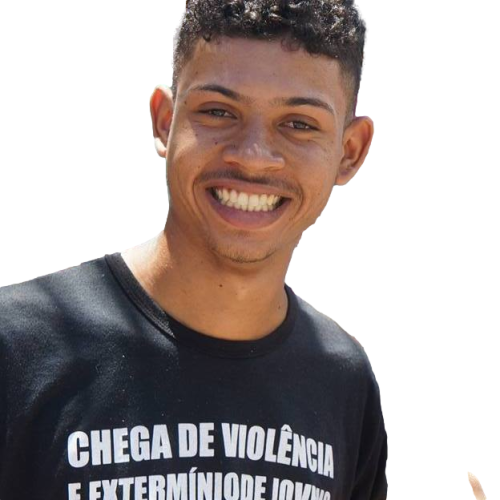
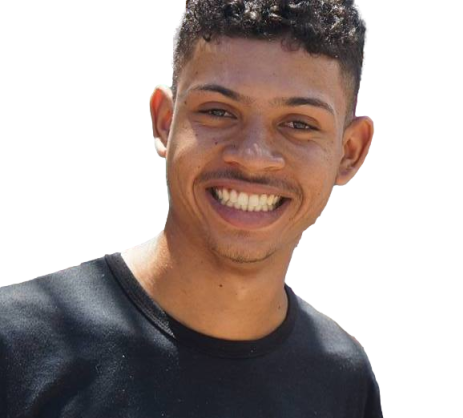
alterando
deletando imagem e alterando css sobre

diff --git a/estilos/sobre.css b/estilos/sobre.css
@@ -53,5 +53,8 @@ h2{
         width: 150px;
         border-radius: 90%;
     }
+    .text{
+        width: 50vw;
+    }
     
 }
